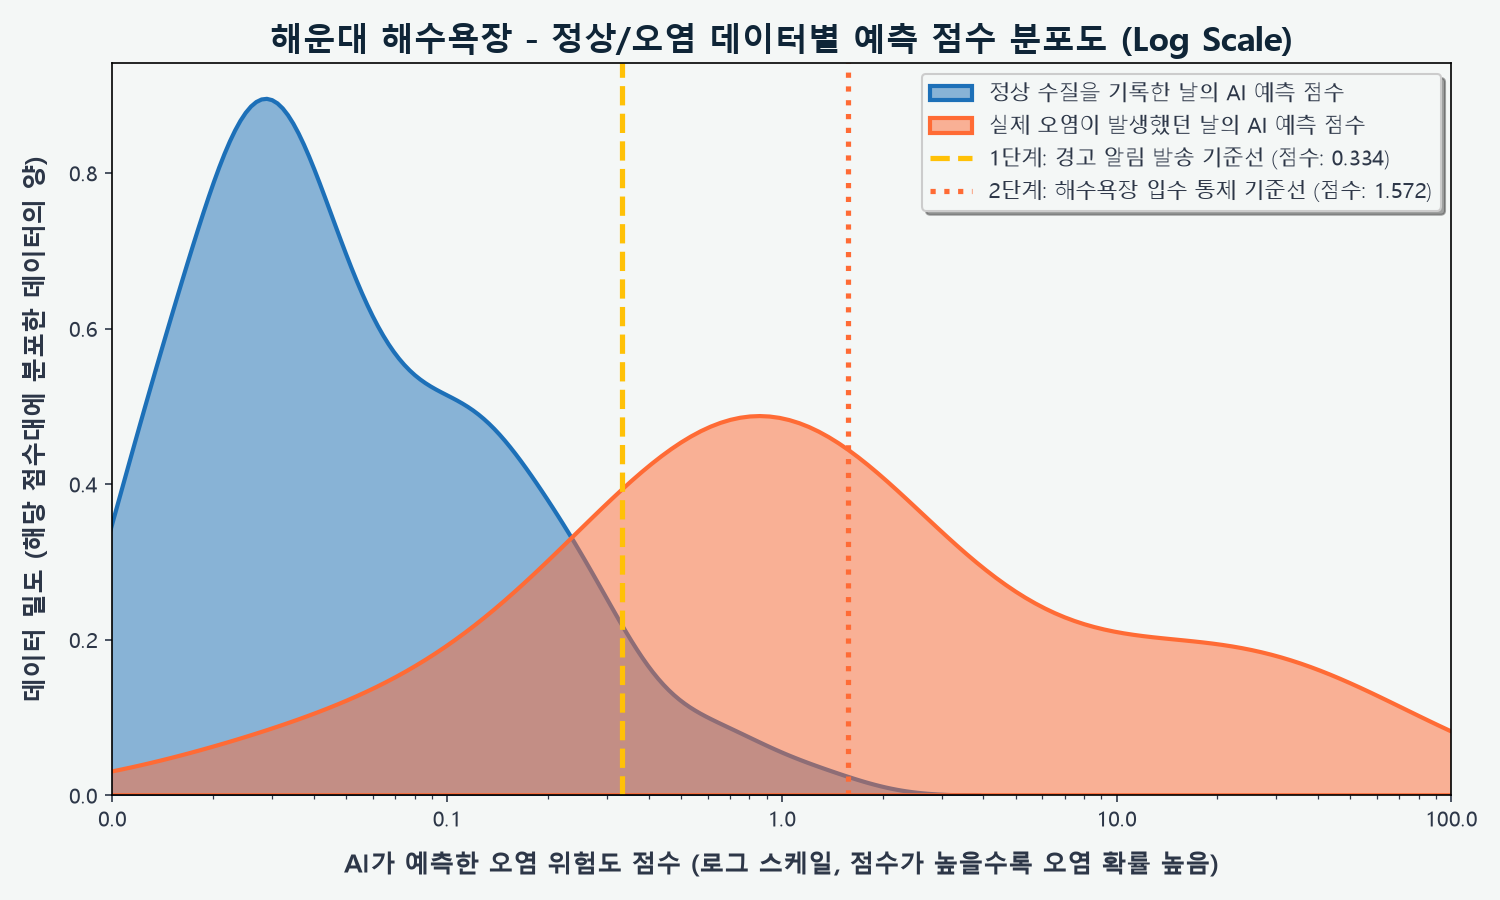
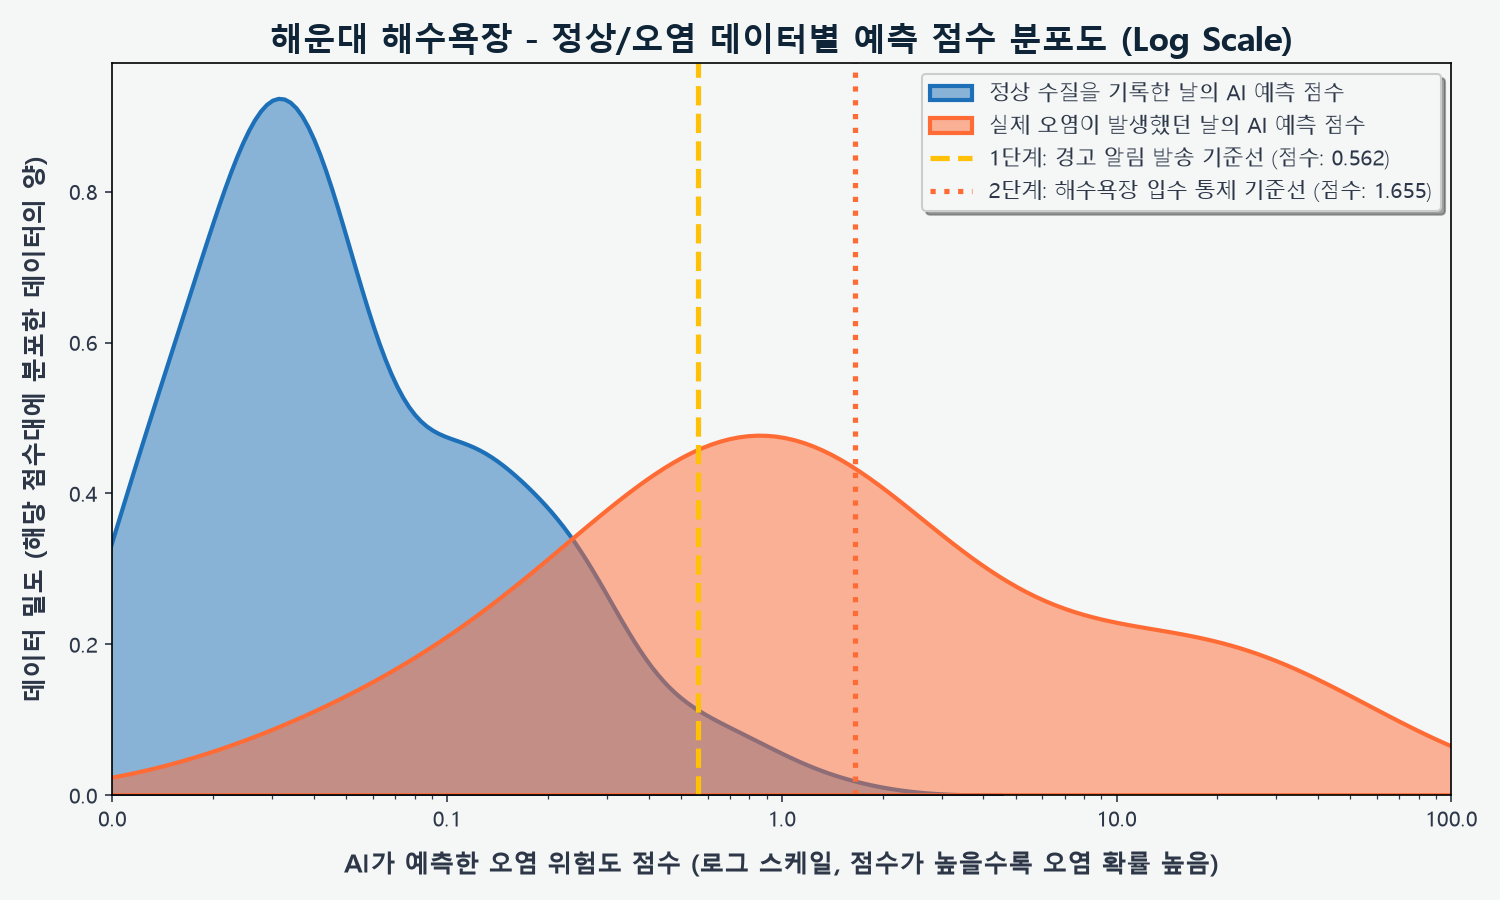
fix(Haeundae): rerun model to properly include Haeundae sewage features in results

diff --git a/Haeundae_WaterQuality_Project/Results/analysis_report_Haeundae.md b/Haeundae_WaterQuality_Project/Results/analysis_report_Haeundae.md
@@ -8,10 +8,10 @@
 
 | 지표 (Metrics) | 결과 (Result) | 비고 (Note) |
 | :--- | :--- | :--- |
-| **ROC-AUC** | **0.945** | 5-fold CV, 하이브리드 모델 |
-| **RMSLE** | **1.295** | 기하급수적 농도 증가(Log)를 고려한 오차율 |
-| **R² (설명력)** | **0.496** | 수질 변동성 설명력 |
-| **MAE** | **148.1** | 대장균 농도 절대 오차 (cfu/100ml) |
+| **ROC-AUC** | **0.946** | 5-fold CV, 하이브리드 모델 |
+| **RMSLE** | **1.281** | 기하급수적 농도 증가(Log)를 고려한 오차율 |
+| **R² (설명력)** | **0.507** | 수질 변동성 설명력 |
+| **MAE** | **131.6** | 대장균 농도 절대 오차 (cfu/100ml) |
 | **학습 데이터** | **283건** | 수질 검사 기록 총량 |
 | **오염 발생 빈도** | **13건** | 대장균/장구균 기준치 초과 사례 |
 
@@ -42,7 +42,7 @@
 | **Phase 1 (초기)** | 기본 기상 데이터 + 결측치 단순 제거 (Dropna) | `0.730` | 대량의 데이터 손실로 패턴 학습 부족 |
 | **Phase 2 (데이터 구출)** | `IterativeImputer` 도입을 통한 센서 결측치 복원 | `0.812` | 학습 데이터 증가 및 부이 데이터 유효화 |
 | **Phase 3 (도메인 특화)** | 다중 `CSO_Flag` 및 거리/관광객 변수 추가 | `0.895` | 공간적 특성 및 인구 밀집도 반영 |
-| **Phase 4 (최종 최적화)** | `Dual-Output Regressor` 아키텍처 및 이중 기준선 분리 | **0.945** | 최종 엔터프라이즈 레벨 성능 달성 |
+| **Phase 4 (최종 최적화)** | `Dual-Output Regressor` 아키텍처 및 이중 기준선 분리 | **0.946** | 최종 엔터프라이즈 레벨 성능 달성 |
 
 ---
 
@@ -59,15 +59,15 @@
 AI 모델은 오염 피해를 선제적으로 차단하기 위해 2단계의 경보 시스템을 가동합니다.
 
 > [!WARNING]
-> ### 🟡 1단계: 주의 알림 (기준 점수: 0.334)
+> ### 🟡 1단계: 주의 알림 (기준 점수: 0.562)
 > * **목적**: 관리자에게 선제적 경고 알림 발송
-> * **재현율 (Recall)**: **84.6%** (오염 사태 11/13건 선제 탐지)
-> * **오탐 (False Positive)**: 14건
+> * **재현율 (Recall)**: **76.9%** (오염 사태 10/13건 선제 탐지)
+> * **오탐 (False Positive)**: 6건
 
 > [!CAUTION]
-> ### 🔴 2단계: 입수 통제 (기준 점수: 1.572)
+> ### 🔴 2단계: 입수 통제 (기준 점수: 1.655)
 > * **목적**: 해수욕장 입수 전면 통제 및 안내 방송
-> * **재현율 (Recall)**: **38.5%** (치명적 오염 사태 5/13건 탐지)
+> * **재현율 (Recall)**: **46.2%** (치명적 오염 사태 6/13건 탐지)
 > * **오탐 (False Positive)**: 0건 (과잉 통제 최소화)
 
 ---
